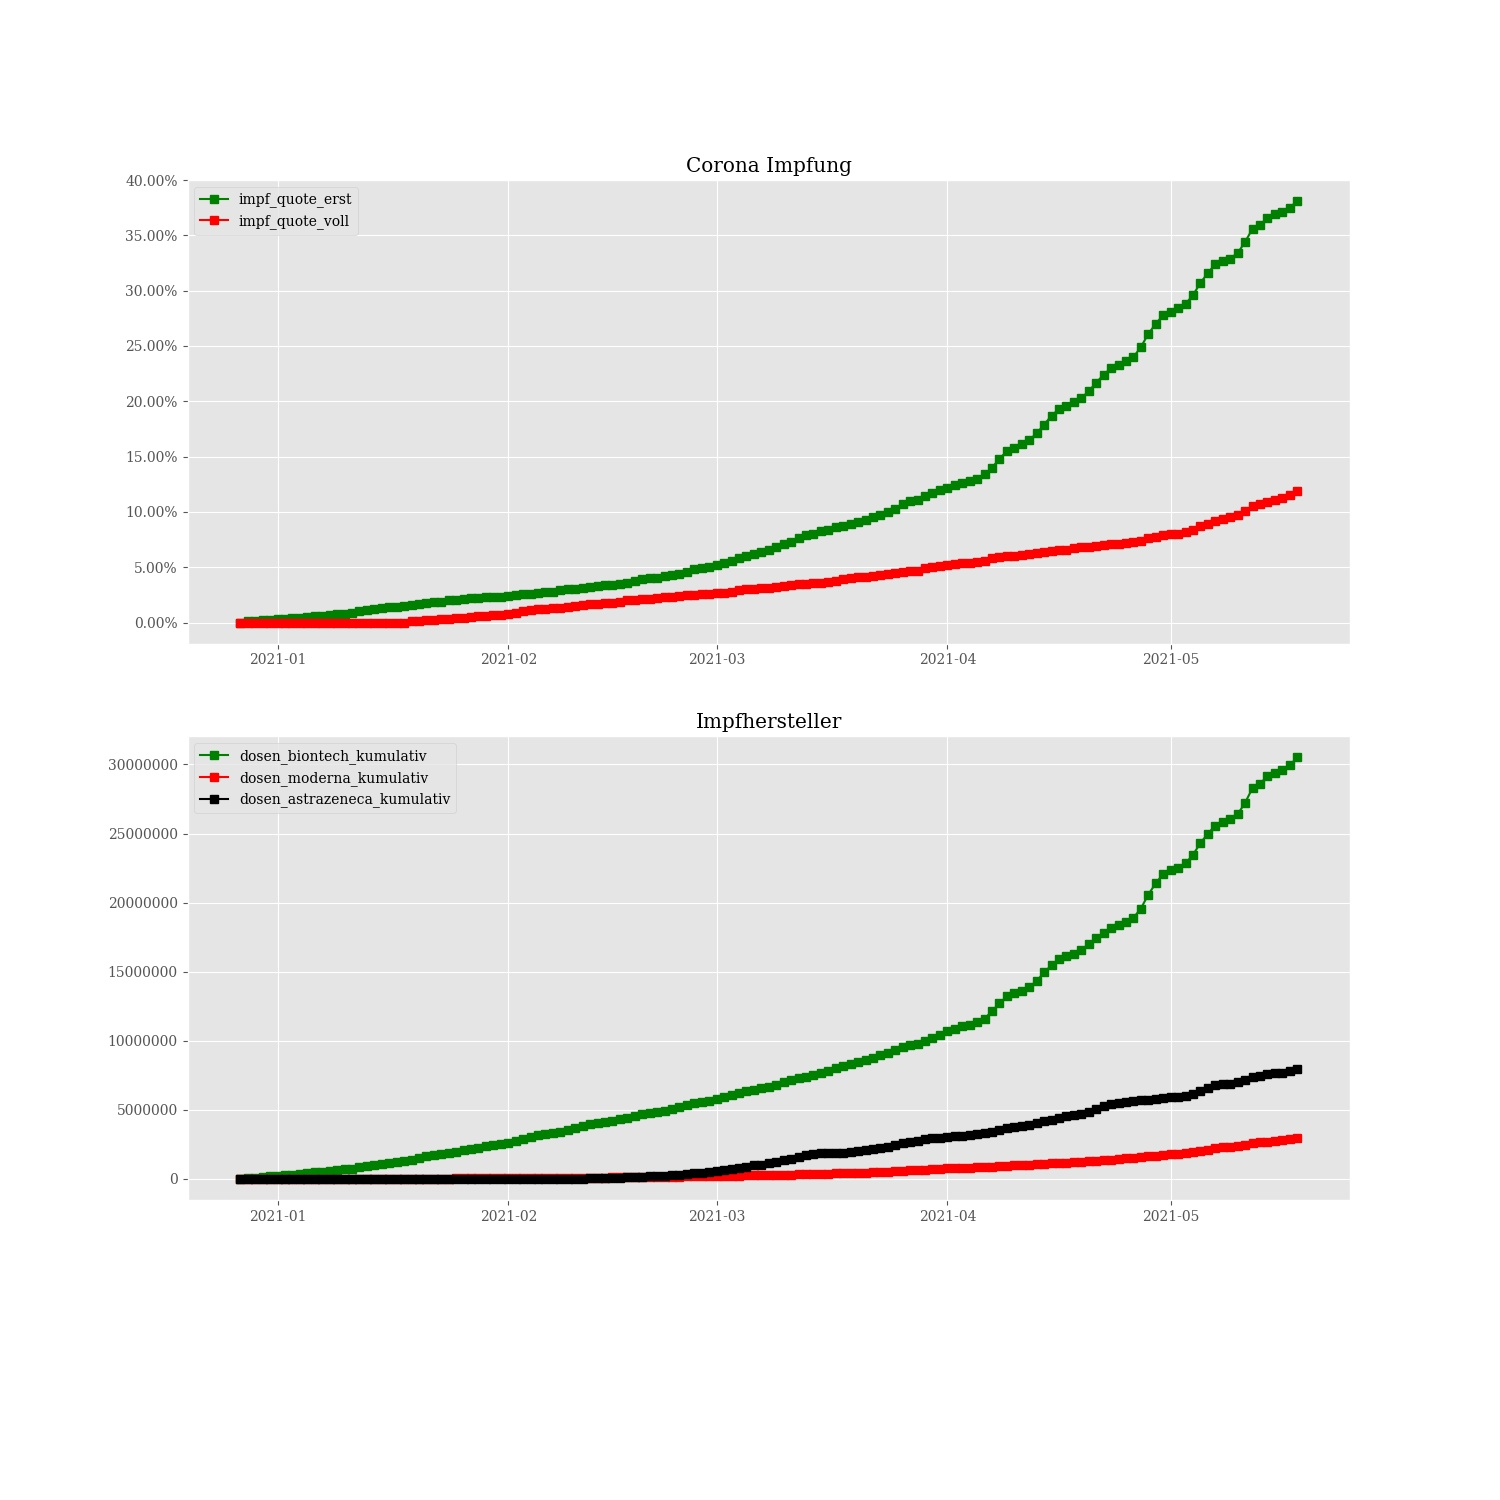
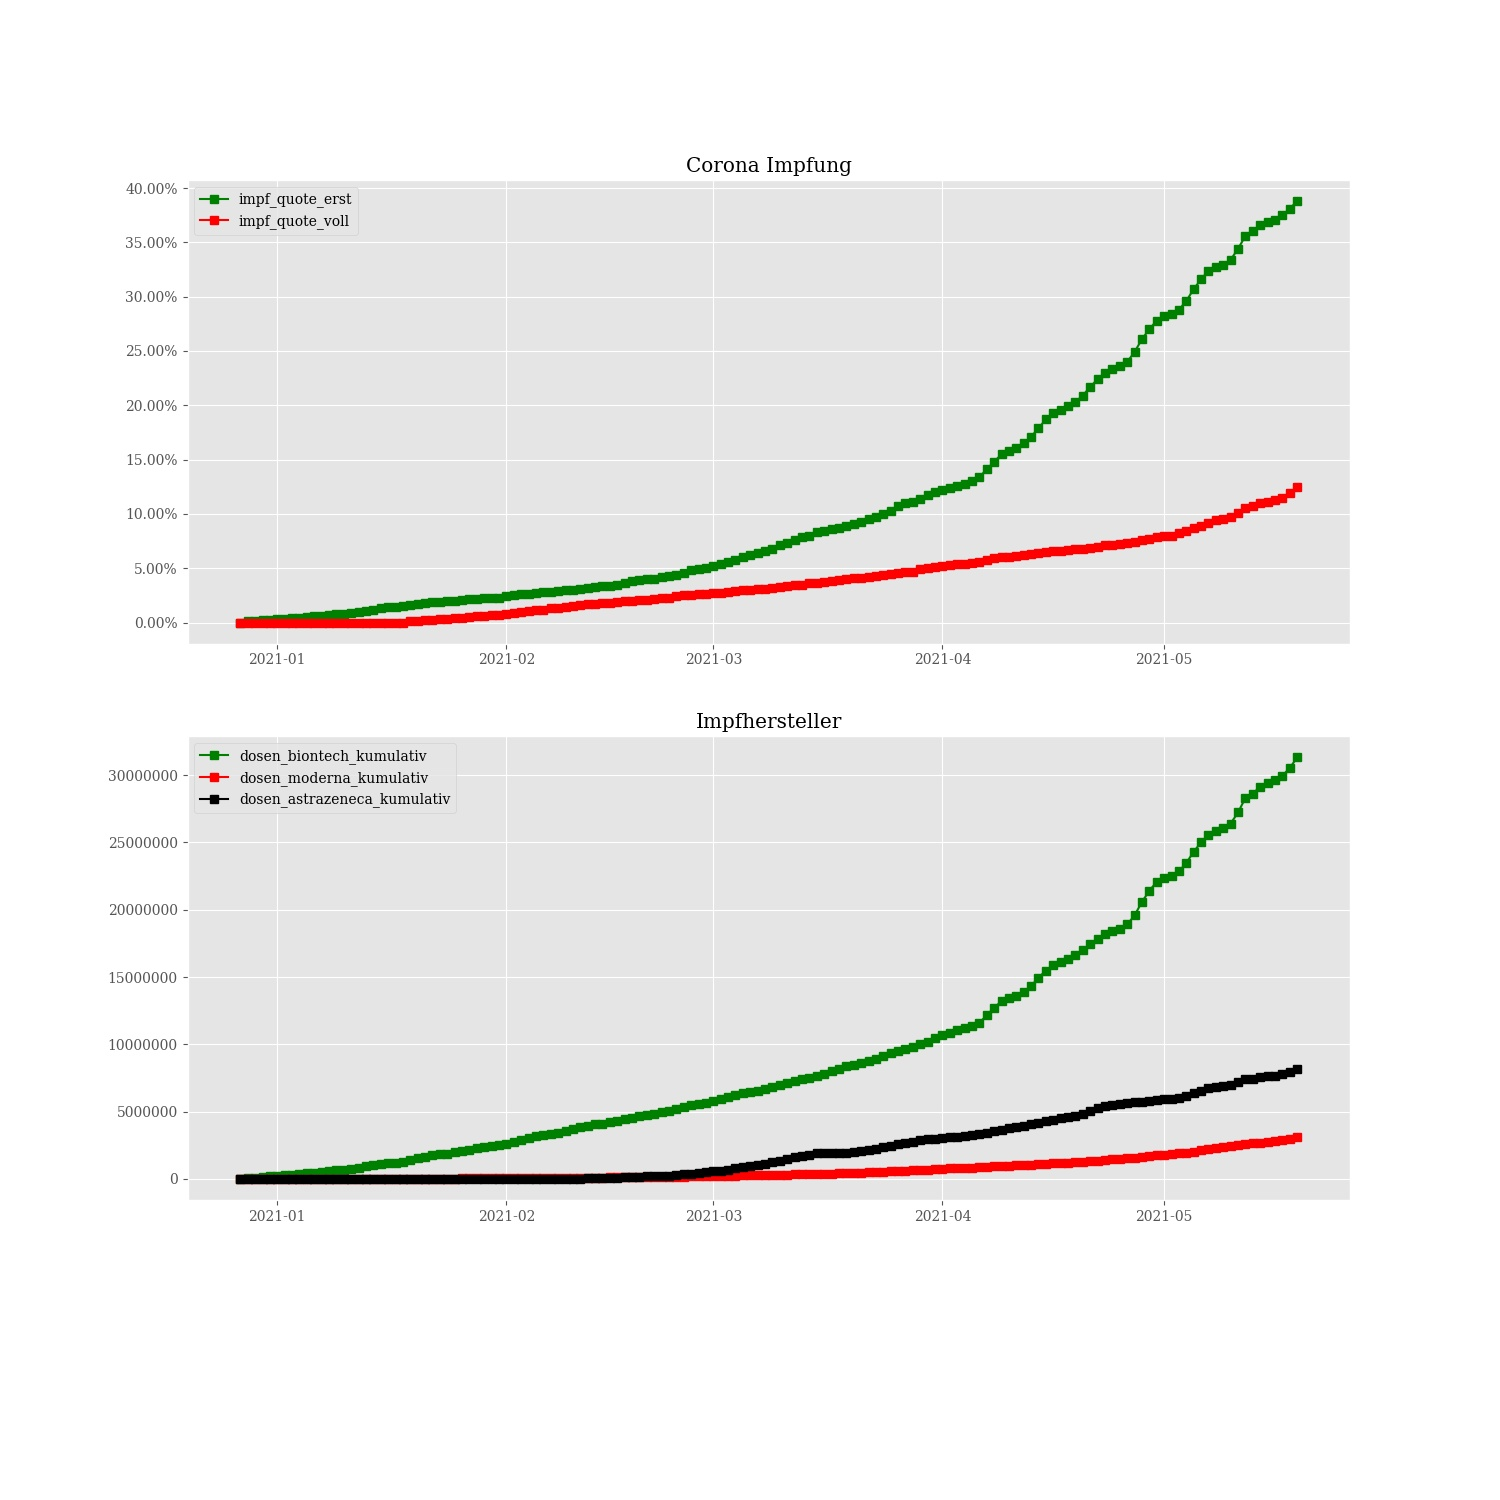
Crontab commit

diff --git a/Readme.md b/Readme.md
@@ -1,19 +1,19 @@
-# Corona vaccine Germany - Stand 2021-05-18
+# Corona vaccine Germany - Stand 2021-05-19
 ## Dashboard by [Simon Hamacher](https://www.shamacher.eu)
 ## Impfstoffe Übersicht
 **Impfstoffhersteller** | **verimpfte Dosen**
 -------- | :--------:
-Biontech | 30511166
-Moderna | 2986323
-Astrazeneca | 7957797
+Biontech | 31310714
+Moderna | 3082022
+Astrazeneca | 8138592
 
 
 ## Quoten
-**Total Verimpfte Dosen:** | |41455286&nbsp;
+**Total Verimpfte Dosen:** | |42531328&nbsp;
 -------- | :--------:| :--------:
-**Erst-Impfquote** | **38.08** %| **31678786** Personen
-**Voll-Impfquote** | **11.90** %| **9901626** Personen
-**Imfungen Durchschnitt** | |**290334.61** pro Tag 
+**Erst-Impfquote** | **38.78** %| **32258912** Personen
+**Voll-Impfquote** | **12.54** %| **10432968** Personen
+**Imfungen Durchschnitt** | |**295913.92** pro Tag 
 ## Bundesländer
 **Bundesland** | **Prozent von gelieferten Imfdosen verimpft**
 -------- | :--------:
